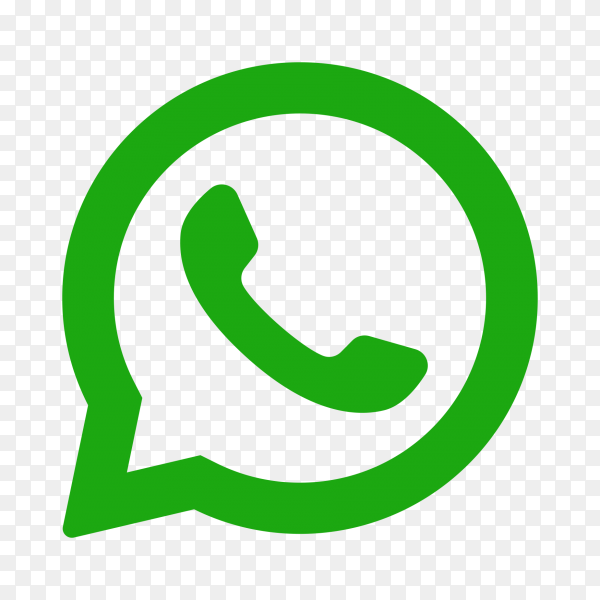
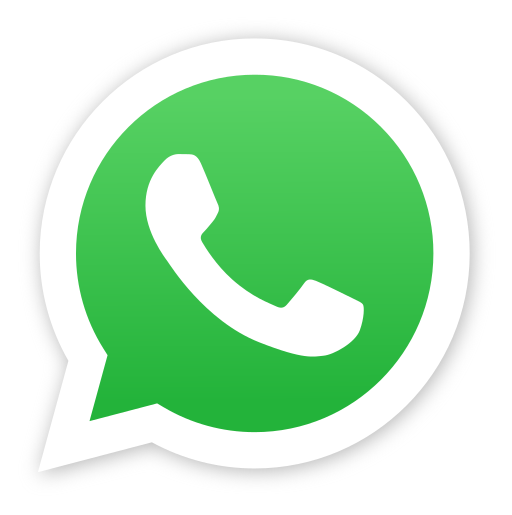
Cambios en Index.html y carpeta Assets. Se arreglaron los iconos del Footer para que se visualicen de manera correcta, ademas de haberse aplicado ligeros retoques en los estilos de dicha sección.

diff --git a/frontend/index.html b/frontend/index.html
@@ -81,13 +81,13 @@
 
   <!-- footer -->
   <div class="footer-style">
-    <footer class="py-1 text-center">
+    <footer class="pt-2 text-center">
       <div class="container">
         <h2 class="footer-title">Barro.on</h2>
-        <div class="row justify-content-center">
+        <div class="row justify-content-center ">
 
           <!-- Aquí va la sección General -->
-          <div class="col-6 col-md-2 mb-2 text-left mx-4">
+          <div class="col-6 col-md-2 my-2 text-left mx-4">
             <h5 class="section-title">General</h5>
             <ul class="nav flex-column list-style">
               <li class="nav-item mb-2"><a href="./index.html" class="nav-link p-0 white-link">Inicio</a></li>
@@ -99,7 +99,7 @@
           </div>
 
           <!-- Aquí va la sección de Sobre Nosotros -->
-          <div class="col-6 col-md-2 mb-2 mx-4">
+          <div class="col-6 col-md-2 my-2 mx-4">
             <h5 class="section-title">Sobre nosotros</h5>
             <ul class="nav flex-column list-style">
               <li class="nav-item mb-2"><a href="./src/pages/nosotros.html" class="nav-link p-0 white-link">Barro.on</a>
@@ -110,37 +110,37 @@
           </div>
 
           <!-- Aquí va la sección de contacto en el footer -->
-          <div class="col-6 col-md-2 mb-2 mx-4">
+          <div class="col-6 col-md-2 my-2 mx-4">
             <h5 class="section-title">Contacto</h5>
             <div class="row justify-content-center mb-3">
               <div class="col-3 px-0"><a href="#" class="nav-link p-0 white-link"><img
                     src="./public/assets/facebook_icon.png" alt="Link Facebook" width="34"></a></div>
 
-              <div class="col-3 px-0"><a href="#" class="nav-link p-0 white-link"><img src="./public/assets/x_icon.avif"
+              <div class="col-3 px-0 pt-1"><a href="#" class="nav-link p-0 white-link"><img src="./public/assets/x_icon.png"
                     alt="Link X" width="34"></a></div>
 
-              <div class="col-3 px-0"><a href="#" class="nav-link p-0 white-link"><img
+              <div class="col-3 px-0 pt-1"><a href="#" class="nav-link p-0 white-link"><img
                     src="./public/assets/instagram_logo.png" alt="Link Instagram" width="34"></a></div>
             </div>
 
             <div class="row justify-content-center">
               <div class="col-4 px-0"><a href="#" class="nav-link p-0 white-link"><img
-                    src="./public/assets/whatsapp_icon.png" alt="Link Whatsapp" width="34"></a></div>
+                    src="./public/assets/whatsapp_icon.png" alt="Link Whatsapp" width="36"></a></div>
               <div class="col-4 px-0"><a href="#" class="nav-link p-0 white-link"><img
-                    src="./public/assets/discord_icon.png" alt="Link Discord" width="34"></a></div>
+                    src="./public/assets/discord_icon.svg" alt="Link Discord" width="36"></a></div>
             </div>
 
-            <div class="row justify-content-center mt-3">
-              <div class="col-1 px-0"><a href="#" class="nav-link p-0 white-link"><img
-                    src="./public/assets/email_icon.png" alt="Icono Email" width="25"></a></div>
-              <div class="col-10 px-0">
+            <div class="row justify-content-center my-3">
+              <div class="col-3 px-0 mx-1"><a href="#" class="nav-link p-0 white-link"><img
+                    src="./public/assets/email_icon.svg" alt="Icono Email" width="25"></a></div>
+              <div class="col-8 px-0 mx-1">
                 <p class="white-text text">barro.on@gmail.com</p>
               </div>
             </div>
           </div>
 
           <!-- Aquí vaq la sección de Centro de Ayuda -->
-          <div class="col-6 col-md-2 mb-2 mx-4">
+          <div class="col-6 col-md-2 my-2 mx-4">
             <h5 class="section-title">Centro de Ayuda</h5>
             <ul class="nav flex-column list-style">
               <li class="nav-item mb-2"><a href="#" class="nav-link p-0 white-link">Accesibilidad</a></li>
@@ -154,8 +154,8 @@
         </div>
 
         <!-- Aquí va la sección de copyright -->
-        <div class="d-flex flex-column align-items-center py-2 my-2 border-top white-border">
-          <p class="mb-1 mt-1"><strong>Hecho con <img src="./public/assets/heart_icon.png" alt="Icono Corazón" width="30"> por Code
+        <div class="d-flex flex-column align-items-center py-2 px-2 mt-2 mx-2 border-top white-border">
+          <p class="mb-1 mt-1"><strong>Hecho con <img src="./public/assets/heart_icon.svg" alt="Icono Corazón" width="30"> por Code
             Gaiden</strong></p>
           <p>&copy; 2024 Barro On. Todos los derechos reservados.</p>
         </div>

diff --git a/frontend/src/styles/Navbar_Footer.css b/frontend/src/styles/Navbar_Footer.css
@@ -72,7 +72,7 @@
 
 .white-text { /* Texto para el correo de contacto*/
     color: white;
-    font-size: 16px;
+    font-size: 15px;
     text-align: center;
     font-family: Ubuntu;
 }
